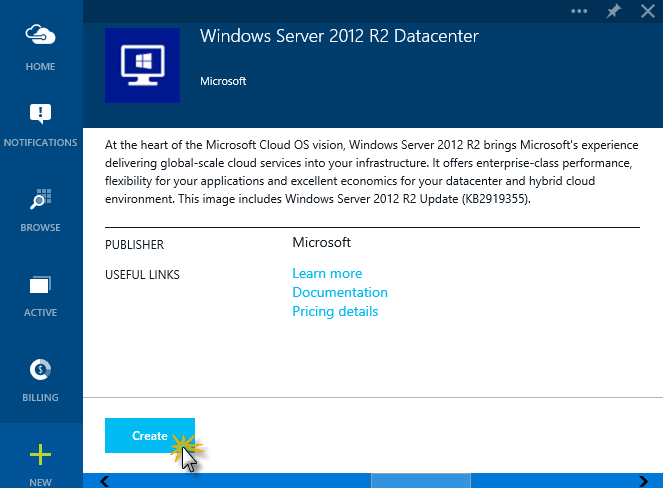
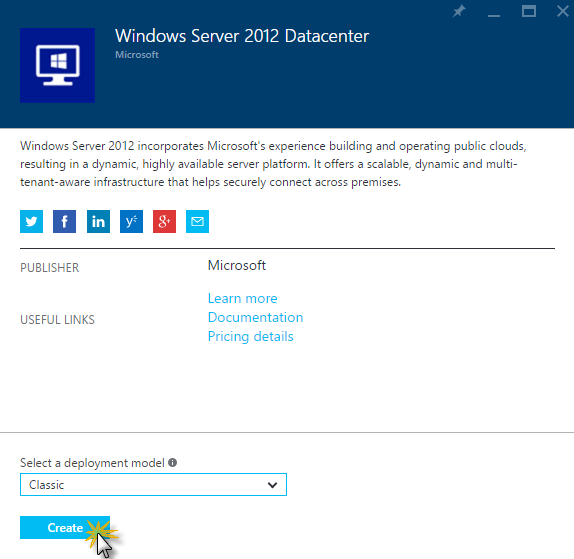
updated HOL creating VM using new portal
updated HOL creating vm using new portal

Changed region(s): [[0.0, 0.0307, 1.0, 1.0], [0.8589, 0.0, 1.0, 0.0307], [0.77, 0.0, 0.8293, 0.0307]]

diff --git a/HOL/create-virtual-machine/README.md b/HOL/create-virtual-machine/README.md
@@ -42,15 +42,15 @@ In this task you will create a Virtual Machine in Azure using the Azure Preview 
 
 1. Sign in to the [Azure Management Portal](https://portal.azure.com/).
 
-1. Click **NEW** and then **Everything**.
+1. On the Left Side bar, click **+ NEW**. Then click on **See all** and **Everything**.
 
-	![Creating VM - Click New and Everything](images/creating-vm---click-new-and-everything.png?raw=true)
+	![Creating VM - Click New and Everything](images/click-new-and-everything.png?raw=true)
 
 	_Creating a VM_ 
 
-1. Click **Virtual Machines** and then click the **Windows Server** tile.
+1. Click **Compute** and then click the **Windows Server** tile.
 
-	![Creating VM - Click Virtual Machines and Windows Server](images/creating-vm-click-vms-and-windows-server.png?raw=true)
+	![Creating VM - Click Virtual Machines and Windows Server](images/creating-compute-vm-winserver.png?raw=true)
 
 	_Creating a VM - Click Virtual Machines then the Windows Server tile_
 
@@ -60,7 +60,7 @@ In this task you will create a Virtual Machine in Azure using the Azure Preview 
 
 	_Creating a VM - Select the image to use_
 
-1. In the **Windows Server 2012 R2 Datacenter** blade that opens, click **Create**.
+1. In the **Windows Server 2012 R2 Datacenter** blade, Select **'Classic'** from dropdown **select a deployment model**, and then click **Create**.
 
 	![Creating VM Confirm image](images/creating-vm-confirm-image.png?raw=true)
 
@@ -82,9 +82,9 @@ In this task you will create a Virtual Machine in Azure using the Azure Preview 
 
 1. Click **Create**.
 
-1. The VM will start being created. You can monitor the creation progress on the **Notifications** Hub. As this can take a few minutes, this task ends here. 
+1. The VM will start being created. You can monitor the creation progress on the **Notifications**. As this can take a few minutes, this task ends here. 
 
-	![Creating a VM - Monitor progress on the Notifications Hub](images/creating-vm-monitor-progress-on-the-notifi.png?raw=true)
+	![Creating a VM - Monitor progress on the Notifications](images/creating-vm-monitor-progress-on-the-notifi.png?raw=true)
 
 	_Creating a VM - Monitor progress in the Notifications Hub_
 
